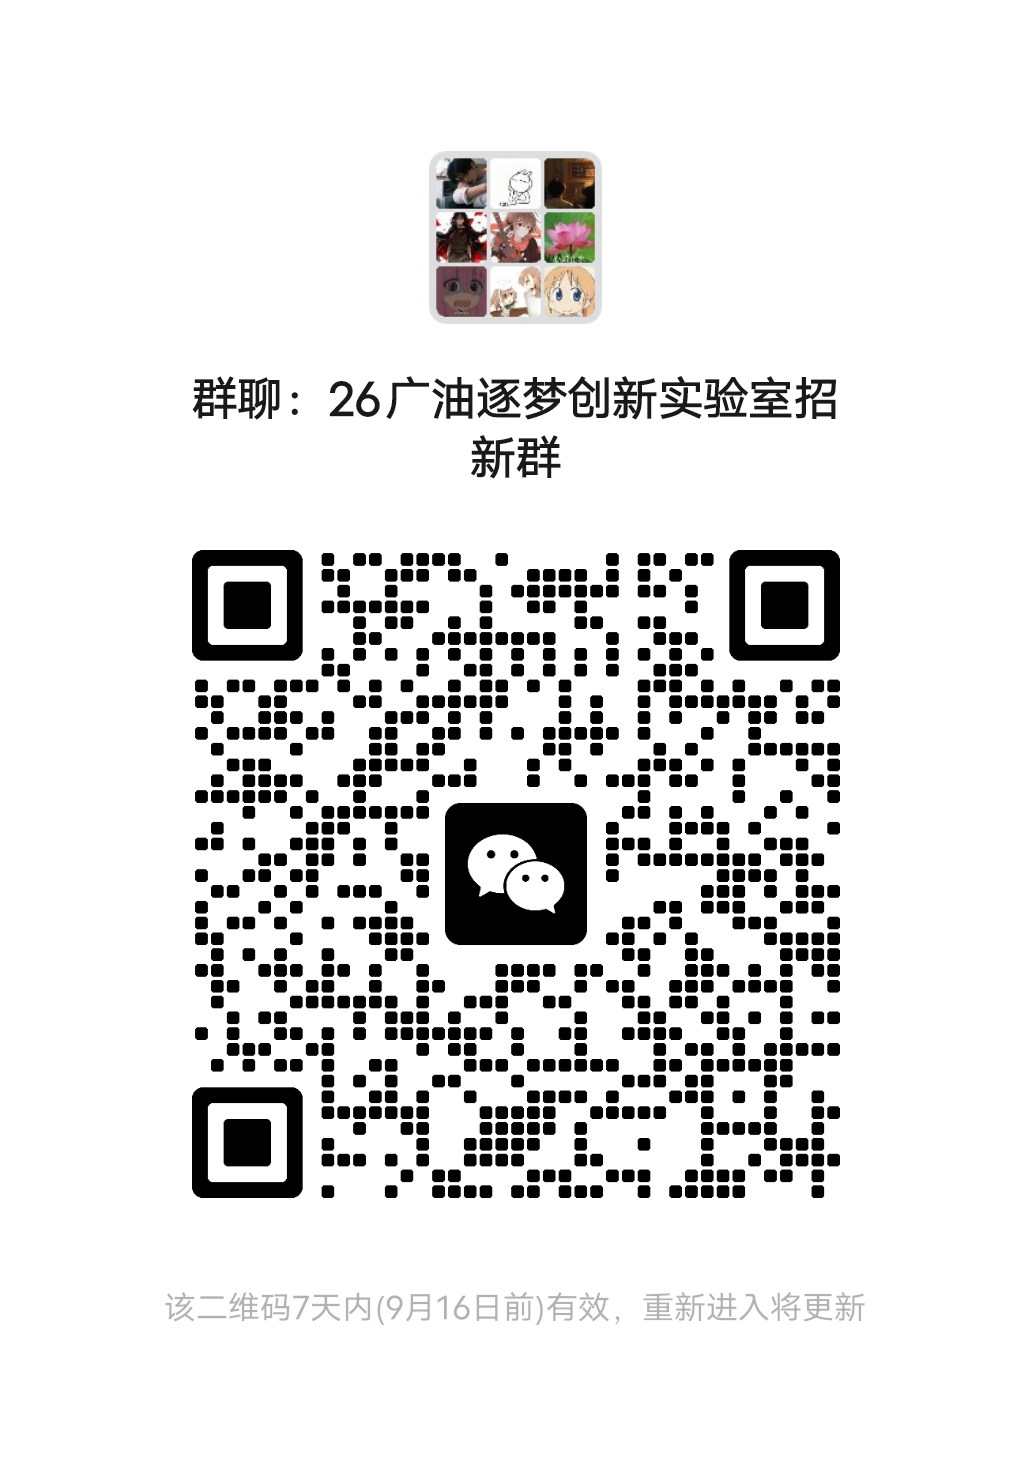
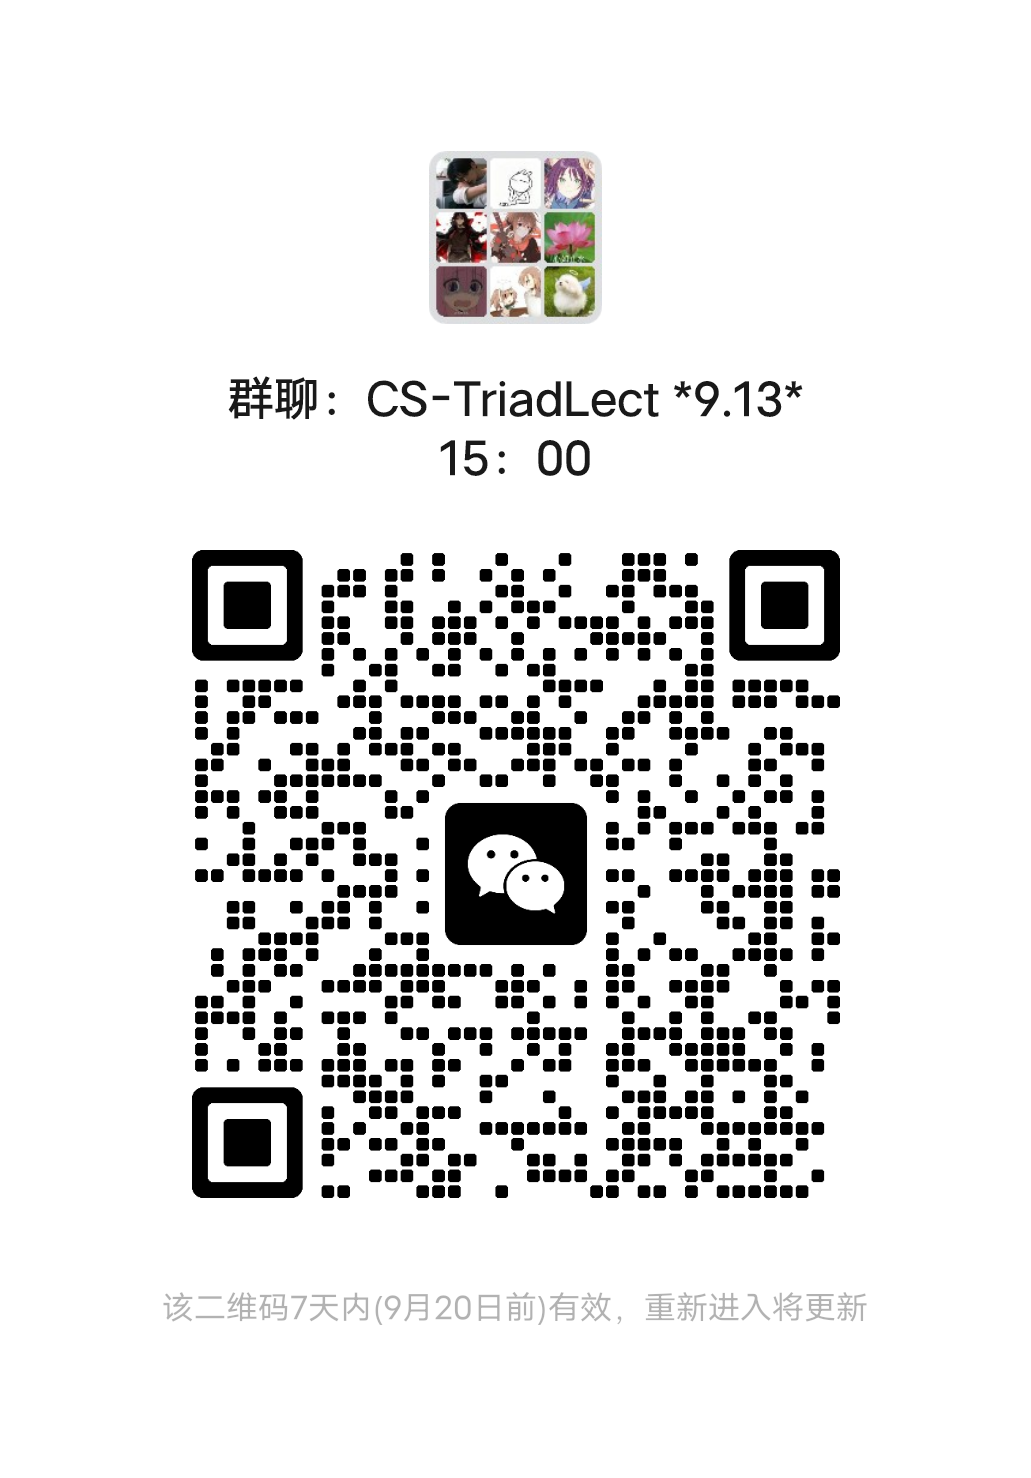
fix(apply): 报名区群二维码换成新群码并同步文案
- public/assets/recruitment-qr.png：替换为新群码（1031x1478，与原图同尺寸）
- ApplySection.vue：figcaption 群名改为新群名「CS-TriadLect *9.13* 15:00」
- content.ts：二维码 alt 同步更新

本地预检：node_modules 里的 vue-tsc -b + vite build 均通过，dist 产物中的
recruitment-qr.png 哈希与新图一致（bun 本机不可用，故未走 bun run build）。

diff --git a/src/components/ApplySection.vue b/src/components/ApplySection.vue
@@ -42,7 +42,7 @@ import { applyAssets } from "../data/content";
         />
         <figcaption>
           <strong>扫码加入招新咨询群</strong>
-          <span>26广油逐梦创新实验室招新群</span>
+          <span>CS-TriadLect *9.13* 15:00</span>
         </figcaption>
       </figure>
       <div :class="$style['actions']">

diff --git a/src/data/content.ts b/src/data/content.ts
@@ -336,7 +336,7 @@ export const applyAssets = {
   },
   qr: {
     src: "./assets/recruitment-qr.png",
-    alt: "26广油逐梦创新实验室招新群二维码",
+    alt: "CS-TriadLect *9.13* 15:00 招新咨询群二维码",
     width: 1031,
     height: 1478,
   },
